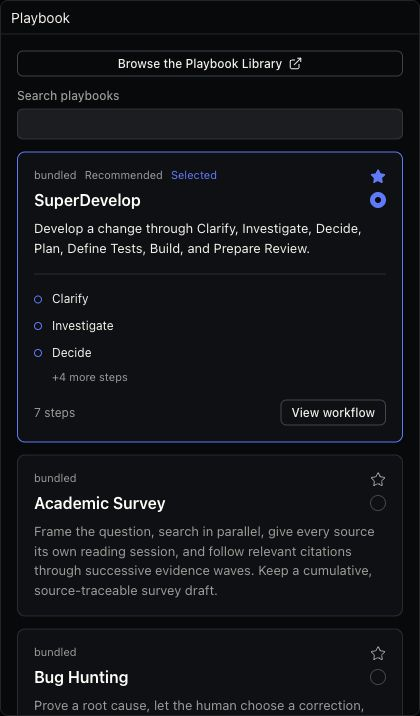
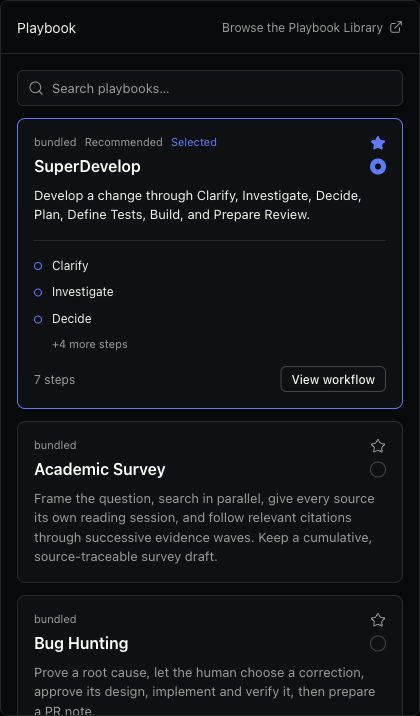
Polish playbook picker header and compact search

diff --git a/alinery-app/src/views/CreateTaskPage.test.tsx b/alinery-app/src/views/CreateTaskPage.test.tsx
@@ -697,8 +697,10 @@ describe("scoped playbook selection", () => {
       entries: [{ reference: sources[0].source.reference, preferred: true, hidden: false, collapsed: false, badge: null, color: null, last_imported_at_ms: null }],
     };
     vi.mocked(ipc.listPlaybookCatalog).mockResolvedValue(preferred);
-    render(<CreateTaskPage activeRepo="/repo" knownRepos={["/repo"]} onCancel={() => {}} onCreated={() => {}} />);
+    const onCancel = vi.fn();
+    render(<CreateTaskPage activeRepo="/repo" knownRepos={["/repo"]} onCancel={onCancel} onCreated={() => {}} />);
     await screen.findByRole("region", { name: "SuperDevelop workflow preview" });
+    await waitFor(() => expect(document.activeElement).toBe(screen.getByPlaceholderText("New task name…")));
     fireEvent.change(screen.getByPlaceholderText("New task name…"), { target: { value: "Preserved draft" } });
     const description = screen.getByPlaceholderText(/Describe the feature/);
     fireEvent.change(description, { target: { value: "Keep this task description" } });
@@ -708,7 +710,10 @@ describe("scoped playbook selection", () => {
     await screen.findByRole("region", { name: "Global SuperDevelop workflow preview" });
     expect(screen.getByRole("searchbox", { name: "Search playbooks" })).toHaveProperty("value", "global/superdevelop");
     expect(screen.getAllByRole("radio")).toHaveLength(1);
-    fireEvent.change(screen.getByRole("searchbox", { name: "Search playbooks" }), { target: { value: "" } });
+    fireEvent.click(screen.getByRole("button", { name: "Clear playbooks search" }));
+    expect(document.activeElement).toBe(screen.getByRole("searchbox", { name: "Search playbooks" }));
+    expect(screen.getByRole("searchbox", { name: "Search playbooks" })).toHaveProperty("value", "");
+    expect(screen.queryByRole("button", { name: "Clear playbooks search" })).toBeNull();
     expect(screen.getAllByRole("radio").map((radio) => (radio as HTMLInputElement).value)).toEqual([
       "bundled/superdevelop",
       "bundled/one-shot",
@@ -721,9 +726,23 @@ describe("scoped playbook selection", () => {
     expect(ipc.savePlaybookPickerPreferences).not.toHaveBeenCalled();
     fireEvent.change(screen.getByRole("searchbox", { name: "Search playbooks" }), { target: { value: "no matching workflow" } });
     expect(screen.queryByRole("radio")).toBeNull();
-    fireEvent.change(screen.getByRole("searchbox", { name: "Search playbooks" }), { target: { value: "" } });
+    fireEvent.keyDown(screen.getByRole("searchbox", { name: "Search playbooks" }), { key: "Escape" });
+    expect(screen.getByRole("searchbox", { name: "Search playbooks" })).toHaveProperty("value", "");
+    expect(onCancel).not.toHaveBeenCalled();
     expect(screen.getAllByRole("radio")).toHaveLength(5);
     expect(screen.getByRole("radio", { name: /Global SuperDevelop/ })).toHaveProperty("checked", true);
+  });
+
+  it.each(["metaKey", "ctrlKey"])("does not create a task from the search clear button with %s+Enter", async (modifier) => {
+    render(<CreateTaskPage activeRepo="/repo" knownRepos={["/repo"]} onCancel={() => {}} onCreated={() => {}} />);
+    await screen.findByRole("region", { name: "SuperDevelop workflow preview" });
+    fireEvent.change(screen.getByPlaceholderText("New task name…"), { target: { value: "Ready to create" } });
+    expect(screen.getByRole("button", { name: "Create task" })).toHaveProperty("disabled", false);
+    fireEvent.change(screen.getByRole("searchbox", { name: "Search playbooks" }), { target: { value: "superdevelop" } });
+    fireEvent.keyDown(screen.getByRole("button", { name: "Clear playbooks search" }), { key: "Enter", [modifier]: true });
+    expect(ipc.createTaskForRepo).not.toHaveBeenCalled();
+    fireEvent.keyDown(screen.getByPlaceholderText("New task name…"), { key: "Enter", [modifier]: true });
+    await waitFor(() => expect(ipc.createTaskForRepo).toHaveBeenCalledTimes(1));
   });
 
   it("opens an unconfigured repository in the searchable library including legacy-hidden choices", async () => {

diff --git a/alinery-app/src/ListToolbar.tsx b/alinery-app/src/ListToolbar.tsx
@@ -2,6 +2,47 @@ import { Archive, Check, Search, X } from "lucide-react";
 import { type ReactNode, useRef } from "react";
 import "./listToolbar.css";
 
+export function CollectionSearch({ label, query, onQueryChange, className }: { label: string; query: string; onQueryChange: (value: string) => void; className?: string }) {
+  const input = useRef<HTMLInputElement>(null);
+  return (
+    <div className={`collection-search${className ? ` ${className}` : ""}`}>
+      <Search size={16} strokeWidth={1.5} aria-hidden="true" />
+      <input
+        ref={input}
+        type="search"
+        aria-label={`Search ${label.toLowerCase()}`}
+        placeholder={`Search ${label.toLowerCase()}…`}
+        value={query}
+        onChange={(event) => onQueryChange(event.target.value)}
+        onKeyDown={(event) => {
+          if (event.key === "Escape" && query) {
+            event.preventDefault();
+            event.stopPropagation();
+            onQueryChange("");
+          }
+        }}
+      />
+      {query && (
+        <button
+          type="button"
+          className="collection-search-clear"
+          aria-label={`Clear ${label.toLowerCase()} search`}
+          title="Clear search"
+          onKeyDown={(event) => {
+            if (event.key === "Enter" || event.key === " ") event.stopPropagation();
+          }}
+          onClick={() => {
+            onQueryChange("");
+            input.current?.focus();
+          }}
+        >
+          <X size={14} strokeWidth={1.5} aria-hidden="true" />
+        </button>
+      )}
+    </div>
+  );
+}
+
 export function ListToolbar({
   label,
   heading,
@@ -23,7 +64,6 @@ export function ListToolbar({
   onReset: () => void;
   children?: ReactNode;
 }) {
-  const input = useRef<HTMLInputElement>(null);
   return (
     <search
       className="collection-toolbar"
@@ -35,38 +75,7 @@ export function ListToolbar({
       }}
     >
       {heading && <div className="collection-heading">{heading}</div>}
-      <div className="collection-search">
-        <Search size={16} strokeWidth={1.5} aria-hidden="true" />
-        <input
-          ref={input}
-          type="search"
-          aria-label={`Search ${label.toLowerCase()}`}
-          placeholder={`Search ${label.toLowerCase()}…`}
-          value={query}
-          onChange={(event) => onQueryChange(event.target.value)}
-          onKeyDown={(event) => {
-            if (event.key === "Escape" && query) {
-              event.preventDefault();
-              event.stopPropagation();
-              onQueryChange("");
-            }
-          }}
-        />
-        {query && (
-          <button
-            type="button"
-            className="collection-search-clear"
-            aria-label={`Clear ${label.toLowerCase()} search`}
-            title="Clear search"
-            onClick={() => {
-              onQueryChange("");
-              input.current?.focus();
-            }}
-          >
-            <X size={14} strokeWidth={1.5} aria-hidden="true" />
-          </button>
-        )}
-      </div>
+      <CollectionSearch label={label} query={query} onQueryChange={onQueryChange} />
       <div className="collection-filters">{children}</div>
       <div className="collection-results">
         {filtered && (

diff --git a/alinery-app/src/views/CreateTaskPage.tsx b/alinery-app/src/views/CreateTaskPage.tsx
@@ -3,6 +3,7 @@ import { useEffect, useRef, useState, useSyncExternalStore } from "react";
 import { flushSync } from "react-dom";
 import { afterPaint } from "../afterPaint";
 import * as ipc from "../ipc";
+import { CollectionSearch } from "../ListToolbar";
 import { PlaybookGraph, selectorsOverlap } from "../PlaybookGraph";
 import { PlaybookLibraryLink } from "../PlaybookLibraryLink";
 import { type PastedImage, stagePastedImages } from "../pastedImages";
@@ -1474,18 +1475,15 @@ export function CreateTaskPage({
         </div>
       </div>
       <aside className="create-preview-panel" aria-labelledby="create-playbook-title">
-        <div className="artifacthead">
+        <div className="artifacthead playbook-picker-header">
           <div className="artifacttitle" id="create-playbook-title">
             Playbook
           </div>
           {draftSlug ? <span className="pill">Draft</span> : null}
+          <PlaybookLibraryLink className="small playbook-browse-action" />
         </div>
         <div className="playbook-panel-controls">
-          <PlaybookLibraryLink className="small playbook-browse-action" />
-          <label className="create-field">
-            <span>Search playbooks</span>
-            <input type="search" className="field-input" value={playbookQuery} onChange={(event) => setPlaybookQuery(event.target.value)} />
-          </label>
+          <CollectionSearch label="playbooks" query={playbookQuery} onQueryChange={setPlaybookQuery} className="playbook-search" />
           {starError && <InlineStatus tone="error">{starError}</InlineStatus>}
           <div className="playbook-picker" role="radiogroup" aria-label="Choose playbook">
             {visiblePlaybooks.length > 0 ? (

diff --git a/alinery-app/src/theme.css b/alinery-app/src/theme.css
@@ -2039,8 +2039,48 @@ main {
 .playbook-library-link svg {
   flex-shrink: 0;
 }
-.playbook-browse-action {
+.create-preview-panel .playbook-picker-header {
+  flex-wrap: wrap;
+  gap: 4px 12px;
+  padding: 12px 16px;
+}
+.playbook-picker-header .artifacttitle {
+  flex: 1 0 auto;
+}
+.playbook-picker-header .playbook-library-link.btn {
+  height: auto;
+  min-height: 28px;
+  max-width: 100%;
+  margin-inline-start: auto;
+  padding: 0;
+  border: 0;
+  background: transparent;
+  color: var(--text-muted);
+  font-weight: 400;
+  white-space: normal;
+  text-align: end;
+}
+.playbook-picker-header .playbook-library-link.btn:hover {
+  background: transparent;
+  color: var(--text-strong);
+  text-decoration: underline;
+  text-underline-offset: 3px;
+}
+.playbook-picker-header .playbook-library-link.btn:focus-visible {
+  outline: 2px solid var(--accent);
+  outline-offset: 4px;
+}
+.create-preview-panel .playbook-search {
+  flex: none;
   width: 100%;
+  min-width: 0;
+  height: 36px;
+  padding-inline: 10px;
+  border-radius: var(--radius-sm);
+  background: var(--surface-raised);
+}
+.playbook-search > svg {
+  flex-shrink: 0;
 }
 .playbook-picker {
   display: grid;
